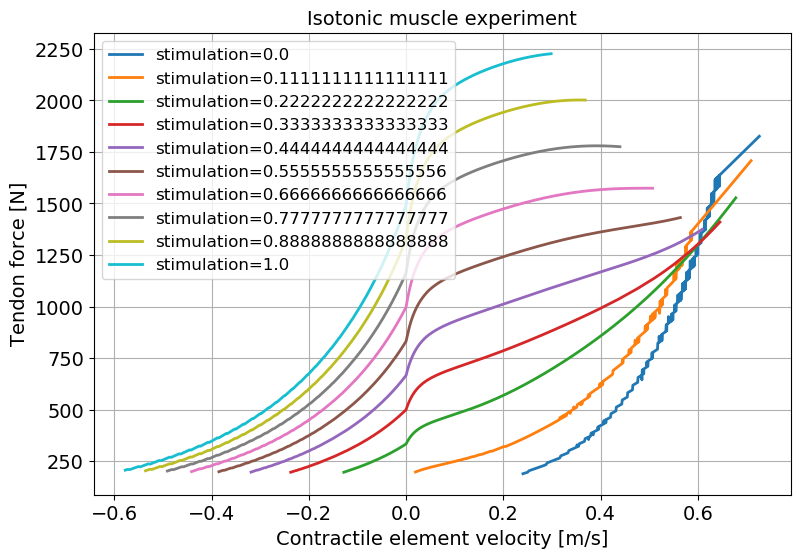
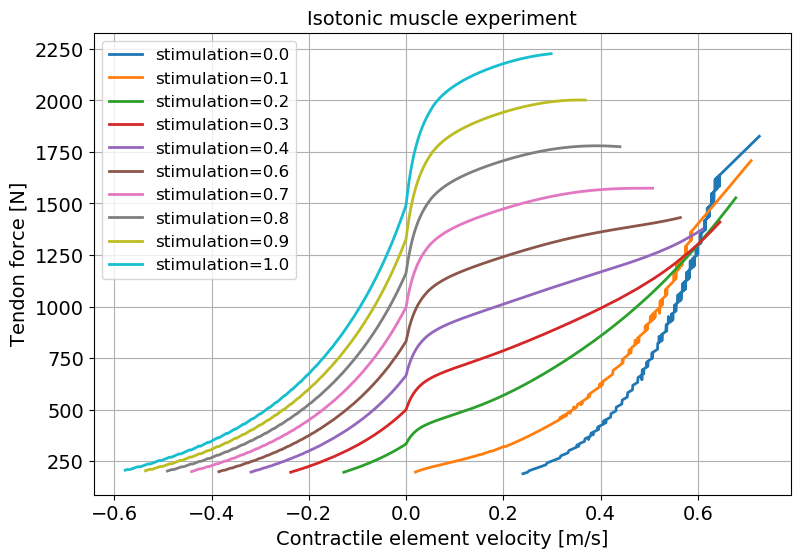
Fixed floating point issue in legends

Changed region(s): [[0.342, 0.1219, 0.5908, 0.5179], [0.3731, 0.0609, 0.5597, 0.0914]]

diff --git a/LAB05/Python/exercise1.py b/LAB05/Python/exercise1.py
@@ -459,7 +459,7 @@ def exercise1e(time_param):
 
         # Plotting
         plt.figure('1_d_isotonic_stim_var')
-        plt.plot(v_ce, tendon_force, label='stimulation={}'.format(stimulation))
+        plt.plot(v_ce, tendon_force, label='stimulation=%.1f'%stimulation)
         plt.title('Isotonic muscle experiment')
         plt.xlabel('Contractile element velocity [m/s]')
         plt.ylabel('Tendon force [N]')
@@ -481,11 +481,11 @@ def exercise1():
     pylog.info("Start exercise 1")
     time_param = TimeParameters(time_start=0.0, time_stop=0.2, time_step=0.001, time_stabilize=0.2)
 
-    exercise1a(time_param)
-    exercise1b(time_param)
-    exercise1c(time_param)
+    # exercise1a(time_param)
+    # exercise1b(time_param)
+    # exercise1c(time_param)
     time_param.t_stop = 0.3
-    exercise1d(time_param)
+    # exercise1d(time_param)
     exercise1e(time_param)
 
     if DEFAULT["save_figures"]:
